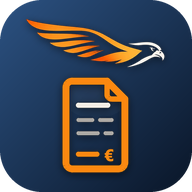
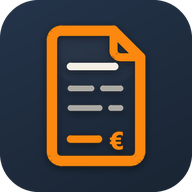
Icones sense falcó i pantalla d'inici d'Android blau pissarra

diff --git a/sw.js b/sw.js
@@ -1,5 +1,5 @@
 // Service worker: l'app funciona sense connexió. Canvia VERSIO quan publiquis canvis.
-const VERSIO = 'pdc-v15';
+const VERSIO = 'pdc-v15-icones';
 const FITXERS = [
   './',
   'index.html',
